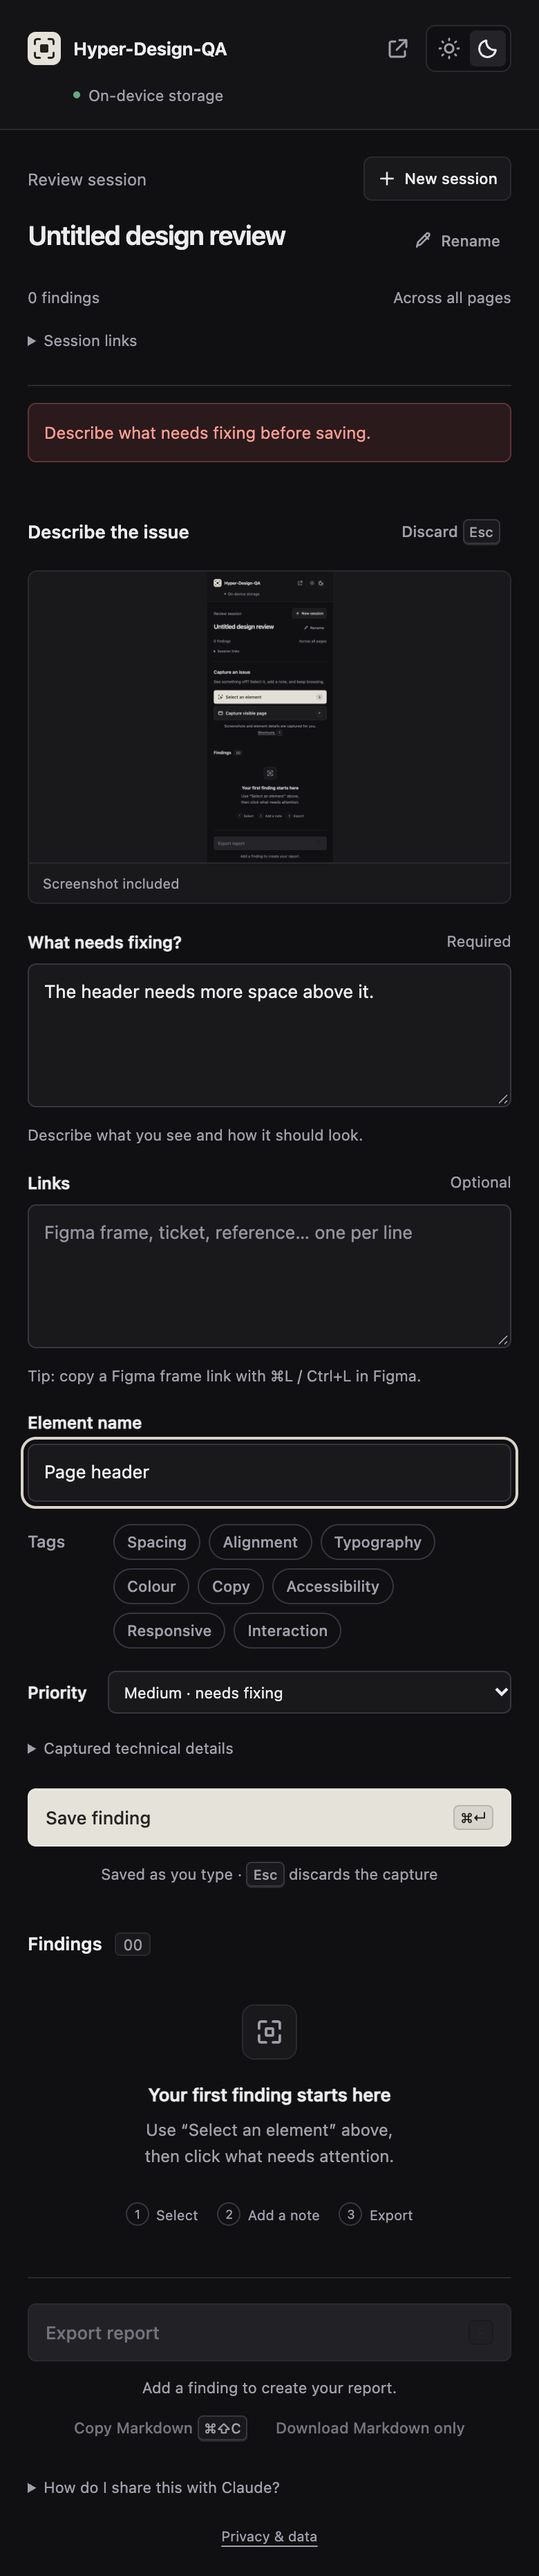
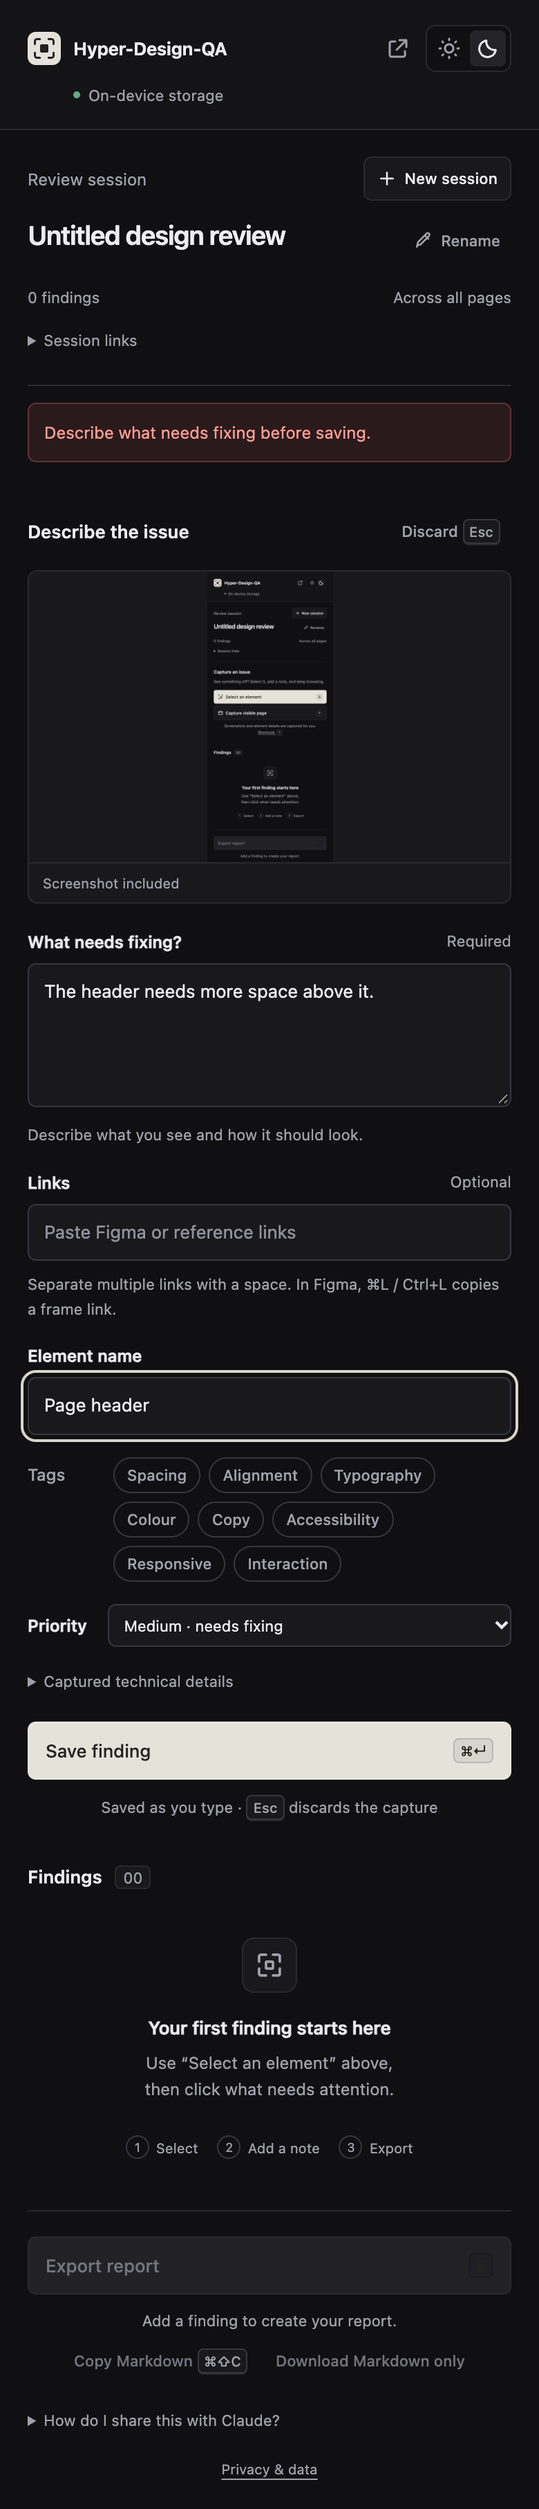
Use single-line inputs for link fields

diff --git a/extension/panel.html b/extension/panel.html
@@ -1,10 +1,10 @@
 <!doctype html><html lang="en"><head><meta charset="utf-8"><meta name="viewport" content="width=device-width,initial-scale=1"><title>Hyper-Design-QA</title><script src="theme.js"></script><link rel="stylesheet" href="panel.css"></head><body>
 <header><div class="header-row"><div class="brand"><img class="mark" src="logo.svg" alt="" width="24" height="24"><span>Hyper-Design-QA</span></div><div class="header-tools"><button id="popout" type="button" class="window-button" aria-label="Pop out into a floating window" title="Pop out into a floating window"><span data-icon="popout" aria-hidden="true"></span></button><div class="theme-switch" role="group" aria-label="Appearance"><button id="themeLight" type="button" aria-label="Light mode" title="Light mode" aria-pressed="false"><span data-icon="sun" aria-hidden="true"></span></button><button id="themeDark" type="button" aria-label="Dark mode" title="Dark mode" aria-pressed="true"><span data-icon="moon" aria-hidden="true"></span></button></div></div></div><div class="saved"><span class="dot"></span>On-device storage</div></header>
-<main><section class="session"><div class="section-head"><span class="session-label">Review session</span><button id="reset" class="session-new"><span data-icon="plus" aria-hidden="true"></span> New session</button></div><div id="sessionDisplay" class="session-title-row"><h2 id="sessionTitle">Untitled design review</h2><button id="rename" class="text" aria-label="Rename session"><span data-icon="edit" aria-hidden="true"></span>Rename</button></div><form id="renameForm" hidden><label for="sessionName">Session name</label><input id="sessionName" maxlength="160" required aria-describedby="nameError" autocomplete="off"><p id="nameError" class="name-error" role="alert" hidden>Enter a name for this session.</p><div class="rename-actions"><button id="cancelRename" type="button" class="secondary">Cancel</button><button type="submit" class="primary">Save name</button></div></form><div class="session-meta"><span id="count">0 findings</span><span>Across all pages</span></div><button id="restorePrevious" class="text" hidden>Restore previous review</button><details id="sessionLinksWrap" class="links-block"><summary>Session links <span id="sessionLinksCount"></span></summary><label for="sessionLinks" class="visually-hidden">Session links</label><textarea id="sessionLinks" rows="2" placeholder="Figma file, spec, ticket… one per line"></textarea><p class="field-hint">Added to the top of every export.</p></details></section>
+<main><section class="session"><div class="section-head"><span class="session-label">Review session</span><button id="reset" class="session-new"><span data-icon="plus" aria-hidden="true"></span> New session</button></div><div id="sessionDisplay" class="session-title-row"><h2 id="sessionTitle">Untitled design review</h2><button id="rename" class="text" aria-label="Rename session"><span data-icon="edit" aria-hidden="true"></span>Rename</button></div><form id="renameForm" hidden><label for="sessionName">Session name</label><input id="sessionName" maxlength="160" required aria-describedby="nameError" autocomplete="off"><p id="nameError" class="name-error" role="alert" hidden>Enter a name for this session.</p><div class="rename-actions"><button id="cancelRename" type="button" class="secondary">Cancel</button><button type="submit" class="primary">Save name</button></div></form><div class="session-meta"><span id="count">0 findings</span><span>Across all pages</span></div><button id="restorePrevious" class="text" hidden>Restore previous review</button><details id="sessionLinksWrap" class="links-block"><summary>Session links <span id="sessionLinksCount"></span></summary><label for="sessionLinks" class="visually-hidden">Session links</label><input id="sessionLinks" type="text" inputmode="url" autocomplete="off" placeholder="Paste Figma, spec, or ticket links"><p class="field-hint">Added to the top of every export.</p></details></section>
 <dialog id="newSessionDialog" aria-labelledby="newSessionTitle" aria-describedby="newSessionDescription"><h2 id="newSessionTitle">Start a new session?</h2><p id="newSessionDescription"></p><p class="dialog-note">Your previous review stays available until you start another session.</p><div class="dialog-actions"><button id="exportAndNew" class="primary">Export report &amp; start new</button><button id="startNew" class="secondary">Start without exporting</button><button id="cancelNew" class="text">Keep reviewing</button></div></dialog>
 <dialog id="shortcutsDialog" aria-labelledby="shortcutsTitle"><h2 id="shortcutsTitle">Keyboard shortcuts</h2><dl class="shortcuts"><dt>Select an element</dt><dd><kbd>S</kbd></dd><dt>Capture visible page</dt><dd><kbd>P</kbd></dd><dt>Save finding</dt><dd><kbd data-mod>↵</kbd></dd><dt>Discard capture</dt><dd><kbd>Esc</kbd> or <kbd>Delete</kbd></dd><dt>Write note</dt><dd><kbd>C</kbd></dd><dt>Undo delete or discard</dt><dd><kbd data-mod>Z</kbd></dd><dt>Edit / delete focused finding</dt><dd><kbd>↵</kbd> / <kbd>Delete</kbd></dd><dt>Export report</dt><dd><kbd>E</kbd></dd><dt>Copy report as Markdown</dt><dd><kbd data-mod>⇧C</kbd></dd><dt>Save &amp; select next (on page)</dt><dd><kbd data-mod>↵</kbd></dd><dt>Toggle tag 1–8</dt><dd><kbd>Alt</kbd><kbd>1</kbd>–<kbd>8</kbd></dd><dt>Show shortcuts</dt><dd><kbd>?</kbd></dd></dl><h3>From any web page</h3><dl class="shortcuts"><dt>Open Hyper-Design-QA</dt><dd><kbd>Alt</kbd><kbd>Shift</kbd><kbd>Q</kbd></dd><dt>Select an element</dt><dd><kbd>Alt</kbd><kbd>Shift</kbd><kbd>S</kbd></dd><dt>Capture visible page</dt><dd><kbd>Alt</kbd><kbd>Shift</kbd><kbd>P</kbd></dd></dl><p class="dialog-note">Change these at brave://extensions/shortcuts or chrome://extensions/shortcuts.</p><div class="dialog-actions"><button id="closeShortcuts" class="secondary">Done</button></div></dialog>
 <div id="captureArea"><div class="section-head"><h1>Capture an issue</h1></div><p class="intro">See something off? Select it, add a note, and keep browsing.</p><button id="pick" class="primary"><span class="button-label"><span data-icon="select" aria-hidden="true"></span><span>Select an element</span></span><kbd aria-hidden="true">S</kbd></button><button id="page" class="secondary"><span class="button-label"><span data-icon="page" aria-hidden="true"></span><span>Capture visible page</span></span><kbd aria-hidden="true">P</kbd></button><p class="hint">Screenshots and element details are captured for you. <button id="showShortcuts" type="button" class="text inline">Shortcuts <kbd>?</kbd></button></p></div>
 <div id="statusWrap" hidden><p id="status" role="status" aria-live="polite"></p><button id="undo" class="text" hidden>Undo <kbd data-mod>Z</kbd></button></div>
-<section id="editor" hidden><div class="section-head"><h2 id="editorTitle">Describe the issue</h2><button id="discard" class="text">Discard <kbd>Esc</kbd></button></div><div class="preview-wrap" title="Click to write your note"><img id="preview" alt="Captured page with selected element marked"><span>Screenshot included</span></div><label for="comment">What needs fixing? <span class="required">Required</span></label><textarea id="comment" rows="4" placeholder="e.g. The button is too close to the heading. It needs more space above it." aria-describedby="commentHint"></textarea><p id="commentHint" class="field-hint">Describe what you see and how it should look.</p><label for="links">Links <span class="required">Optional</span></label><textarea id="links" rows="2" placeholder="Figma frame, ticket, reference… one per line"></textarea><p class="field-hint">Tip: copy a Figma frame link with ⌘L / Ctrl+L in Figma.</p><label for="component">Element name</label><input id="component" maxlength="200" placeholder="e.g. Sign-up button"><div class="tag-row" role="group" aria-label="Tags"><span class="tag-label">Tags</span><div id="tags"></div></div><div class="priority-row"><label for="severity">Priority</label><select id="severity"><option value="Low">Low · minor polish</option><option value="Medium" selected>Medium · needs fixing</option><option value="High">High · blocks usage</option></select></div><details><summary>Captured technical details</summary><div id="location" class="location"></div><p class="field-hint">Included in your report. You don’t need to edit these.</p></details><button id="save" class="primary"><span>Save finding</span><kbd aria-hidden="true" data-mod>↵</kbd></button><p class="hint">Saved as you type · <kbd>Esc</kbd> discards the capture</p></section>
+<section id="editor" hidden><div class="section-head"><h2 id="editorTitle">Describe the issue</h2><button id="discard" class="text">Discard <kbd>Esc</kbd></button></div><div class="preview-wrap" title="Click to write your note"><img id="preview" alt="Captured page with selected element marked"><span>Screenshot included</span></div><label for="comment">What needs fixing? <span class="required">Required</span></label><textarea id="comment" rows="4" placeholder="e.g. The button is too close to the heading. It needs more space above it." aria-describedby="commentHint"></textarea><p id="commentHint" class="field-hint">Describe what you see and how it should look.</p><label for="links">Links <span class="required">Optional</span></label><input id="links" type="text" inputmode="url" autocomplete="off" placeholder="Paste Figma or reference links"><p class="field-hint">Separate multiple links with a space. In Figma, ⌘L / Ctrl+L copies a frame link.</p><label for="component">Element name</label><input id="component" maxlength="200" placeholder="e.g. Sign-up button"><div class="tag-row" role="group" aria-label="Tags"><span class="tag-label">Tags</span><div id="tags"></div></div><div class="priority-row"><label for="severity">Priority</label><select id="severity"><option value="Low">Low · minor polish</option><option value="Medium" selected>Medium · needs fixing</option><option value="High">High · blocks usage</option></select></div><details><summary>Captured technical details</summary><div id="location" class="location"></div><p class="field-hint">Included in your report. You don’t need to edit these.</p></details><button id="save" class="primary"><span>Save finding</span><kbd aria-hidden="true" data-mod>↵</kbd></button><p class="hint">Saved as you type · <kbd>Esc</kbd> discards the capture</p></section>
 <section id="findingsSection"><div class="section-head"><h2>Findings <span id="badge">0</span></h2></div><div id="findings"></div><div id="empty"><div class="empty-icon" data-icon="frame" aria-hidden="true"></div><h3>Your first finding starts here</h3><p>Use “Select an element” above,<br>then click what needs attention.</p><ol class="steps"><li><span>1</span>Select</li><li><span>2</span>Add a note</li><li><span>3</span>Export</li></ol></div></section>
 </main><footer><button id="export" class="primary" disabled><span>Export report</span><kbd aria-hidden="true">E</kbd></button><p id="exportHint">Add a finding to create your report.</p><div class="export-alt"><button id="copyMd" class="text" disabled>Copy Markdown <kbd data-mod>⇧C</kbd></button><button id="exportMd" class="text" disabled>Download Markdown only</button></div><details class="export-help"><summary>How do I share this with Claude?</summary><p>Export your report and unzip the downloaded file. Attach report.md and the screenshots to Claude. The report also includes a JSON file with the captured details.</p></details><a class="privacy-link" href="privacy.html" target="_blank" rel="noopener">Privacy &amp; data</a></footer><script type="module" src="panel.js"></script></body></html>

diff --git a/extension/panel.css b/extension/panel.css
@@ -155,7 +155,7 @@ kbd+kbd{margin-left:3px}
 .shortcuts dd{margin:0;text-align:right;white-space:nowrap;color:var(--secondary);font-size:11px}
 dialog h3{font-size:12px;font-weight:500;margin:4px 0 10px}
 .links-block{margin-top:12px}
-.links-block textarea{margin-top:6px}
+.links-block input{margin-top:6px}
 .links-block .field-hint{margin:6px 0 0}
 #sessionLinksCount{color:var(--secondary)}
 .visually-hidden{position:absolute;width:1px;height:1px;overflow:hidden;clip:rect(0 0 0 0)}
